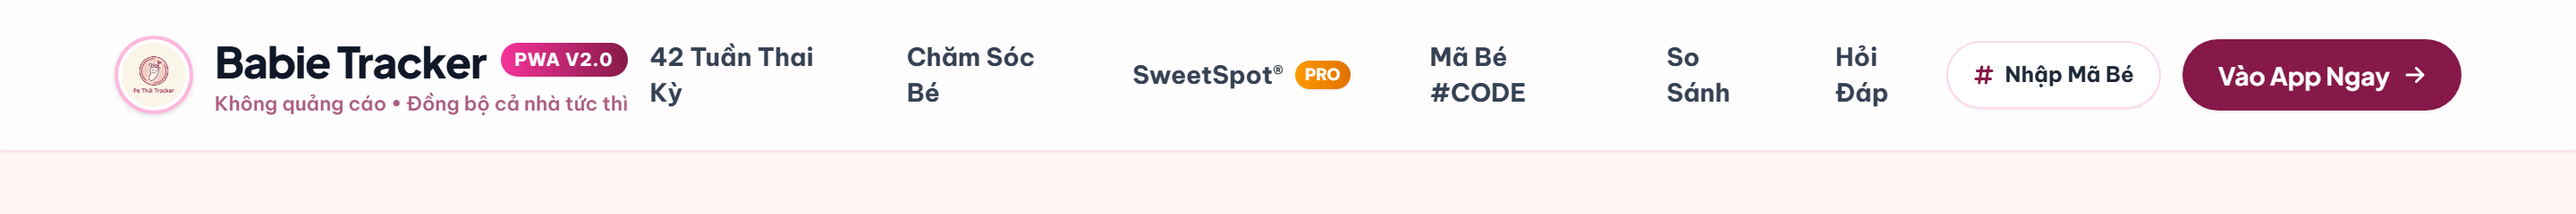
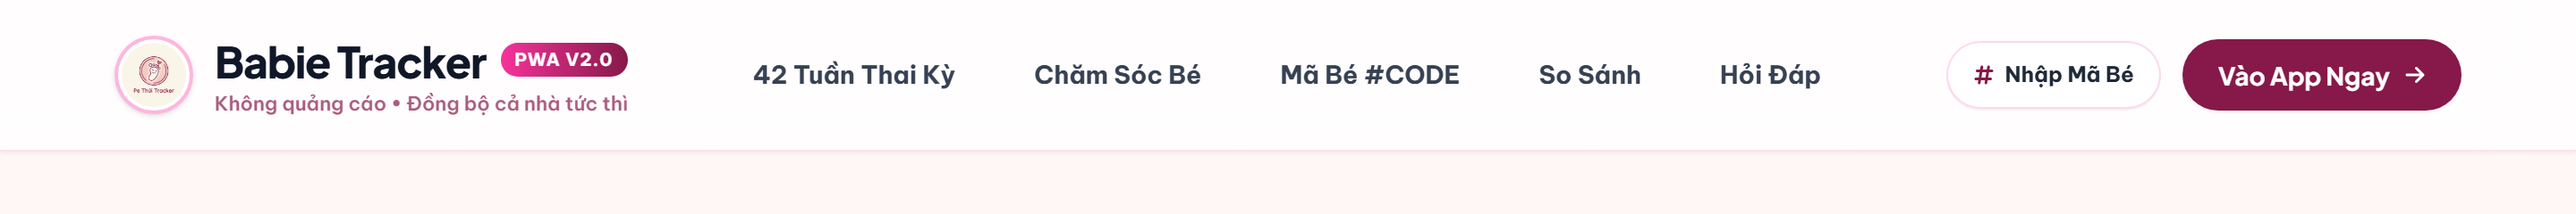
fix(landing): deduplicate navbar items, keep clean 'Chăm Sóc Bé' and remove redundant SweetSpot link

Changed region(s): [[0.25, 0.2042, 0.75, 0.4958]]

diff --git a/pe-thui/app/landing/page.js b/pe-thui/app/landing/page.js
@@ -49,7 +49,7 @@ export default function LandingPage() {
             setScrolled(window.scrollY > 15);
 
             // Active section spy
-            const sections = ['pregnancy', 'baby-care', 'sweetspot', 'family-sync', 'compare', 'faq'];
+            const sections = ['pregnancy', 'baby-care', 'family-sync', 'compare', 'faq'];
             const scrollPosition = window.scrollY + 130;
             let current = '';
 
@@ -140,20 +140,6 @@ export default function LandingPage() {
                             }`}
                         >
                             Chăm Sóc Bé
-                        </a>
-                        <a 
-                            href="#sweetspot" 
-                            onClick={(e) => handleScrollTo(e, 'sweetspot')}
-                            className={`transition-all py-1.5 px-3 rounded-xl flex items-center gap-1.5 ${
-                                activeSection === 'sweetspot'
-                                    ? 'text-[#861949] bg-pink-100/90 font-black shadow-2xs'
-                                    : 'text-gray-700 hover:text-[#861949] hover:bg-pink-50/60'
-                            }`}
-                        >
-                            <span>SweetSpot®</span>
-                            <span className="text-[9px] bg-gradient-to-r from-amber-500 to-amber-600 text-white px-1.5 py-0.5 rounded-full font-black shadow-2xs">
-                                PRO
-                            </span>
                         </a>
                         <a 
                             href="#family-sync" 
@@ -522,7 +508,7 @@ export default function LandingPage() {
             </section>
 
             {/* 5. DEEP DIVE: BABY CARE & SWEETSPOT® */}
-            <section id="sweetspot" className="py-16 sm:py-24 bg-white">
+            <section id="baby-care" className="py-16 sm:py-24 bg-white">
                 <div className="max-w-6xl mx-auto px-4 sm:px-6">
                     <div className="flex flex-col lg:flex-row items-center gap-12 lg:gap-16">
                         
@@ -542,7 +528,7 @@ export default function LandingPage() {
                         </div>
 
                         {/* Text and Features Column */}
-                        <div className="flex-1" id="baby-care">
+                        <div className="flex-1" id="sweetspot">
                             <span className="text-xs font-bold text-indigo-800 uppercase tracking-widest bg-indigo-100 px-3.5 py-1 rounded-full border border-indigo-200">
                                 Chăm sóc bé & Rèn ngủ
                             </span>
@@ -1212,11 +1198,11 @@ export default function LandingPage() {
                                 Thai kỳ
                             </a>
                             <a 
-                                href="#sweetspot" 
-                                onClick={(e) => handleScrollTo(e, 'sweetspot')}
+                                href="#baby-care" 
+                                onClick={(e) => handleScrollTo(e, 'baby-care')}
                                 className="hover:text-[#861949]"
                             >
-                                SweetSpot®
+                                Chăm sóc bé
                             </a>
                             <a 
                                 href="#faq" 
